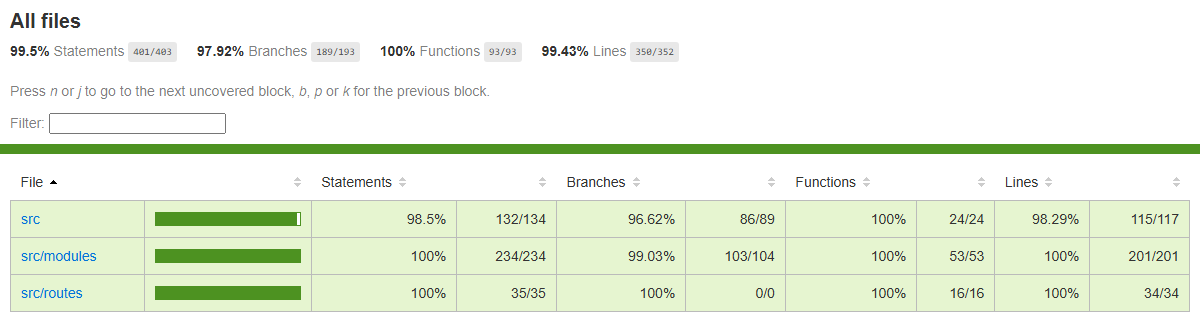
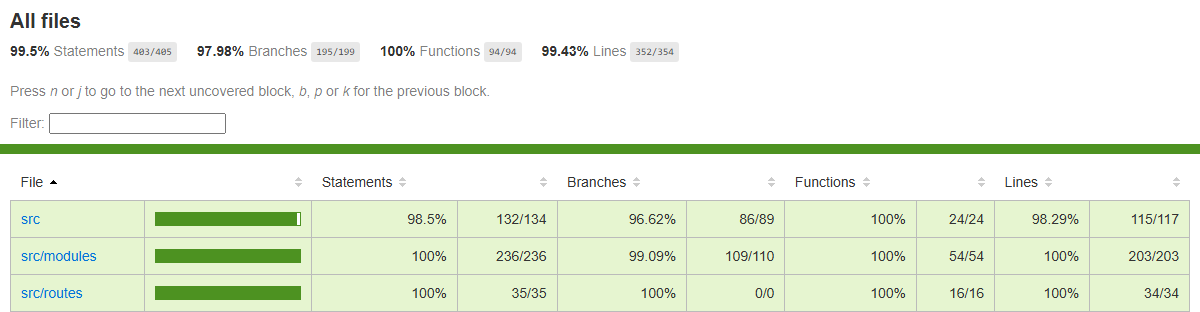
Update A4 document with phone changes and new coverage report

diff --git a/Assignment 4/Assignment_4_FA_26_39.md b/Assignment 4/Assignment_4_FA_26_39.md
@@ -8,7 +8,7 @@ https://github.com/tommy-truo/queue-smart
 - The database code is in `backend/src/db.ts`. The modules in `backend/src/modules/` read and write it.
 - Unit tests are in `backend/tests/`.
 - Run the tests with `npm test` and the coverage report with `npm run coverage` from `backend/`.
-- 108 tests pass, with about 99% line coverage.
+- 111 tests pass, with about 99% line coverage.
 
 ## 2. Database Schema
 
@@ -36,7 +36,7 @@ CREATE TABLE IF NOT EXISTS UserProfile (
   userId   TEXT PRIMARY KEY REFERENCES UserCredentials(userId) ON DELETE CASCADE,
   fullName TEXT NOT NULL CHECK (length(fullName) BETWEEN 1 AND 50),
   email    TEXT NOT NULL UNIQUE CHECK (length(email) <= 254),
-  phone    TEXT CHECK (phone IS NULL OR length(phone) <= 20)
+  phone    TEXT CHECK (phone IS NULL OR length(phone) BETWEEN 10 AND 17)
 );
 
 CREATE TABLE IF NOT EXISTS Service (
@@ -91,14 +91,14 @@ CREATE TABLE IF NOT EXISTS History (
 
 ## 3. Code Coverage Report
 
-All 108 tests in 8 files pass. Output of `npm run coverage` (Vitest with v8):
+All 111 tests in 8 files pass. Output of `npm run coverage` (Vitest with v8):
 
 | Metric     | Covered   | Percent |
 | ---------- | --------- | ------- |
-| Statements | 401 / 403 | 99.5%   |
-| Branches   | 189 / 193 | 97.92%  |
-| Functions  | 93 / 93   | 100%    |
-| Lines      | 350 / 352 | 99.43%  |
+| Statements | 403 / 405 | 99.5%   |
+| Branches   | 195 / 199 | 97.98%  |
+| Functions  | 94 / 94   | 100%    |
+| Lines      | 352 / 354 | 99.43%  |
 
 ![Coverage report](coverage_report.png)
 
@@ -111,6 +111,7 @@ All 108 tests in 8 files pass. Output of `npm run coverage` (Vitest with v8):
 | -------------------------- | -------------------------------------------------------------------------------- |
 | UserProfile email          | Added the email column to the UserProfile table and its seed data               |
 | Registration               | Registration now saves the user's email in UserProfile too                      |
+| Phone number               | Added a phone number field to registration, with length and format checks, saved in UserProfile, and tests |
 
 
 ### Charles Mccallum
@@ -122,6 +123,7 @@ All 108 tests in 8 files pass. Output of `npm run coverage` (Vitest with v8):
 | Password hashing           | Passwords are hashed with scrypt; login and registration use the database        |
 | Services and queues        | Moved services, queues and queue entries from memory into SQLite                 |
 | Seed data                  | Demo history, notifications and phone numbers for more users                     |
+| Phone fixes                | Made phone optional on the registration form, sent it to the API and returned it on login |
 | Styling                    | Restyled the header, cards, tables, buttons, forms and auth screens              |
 | Unit tests                 | Tests for the schema, password hashing and each move to the database             |
 
